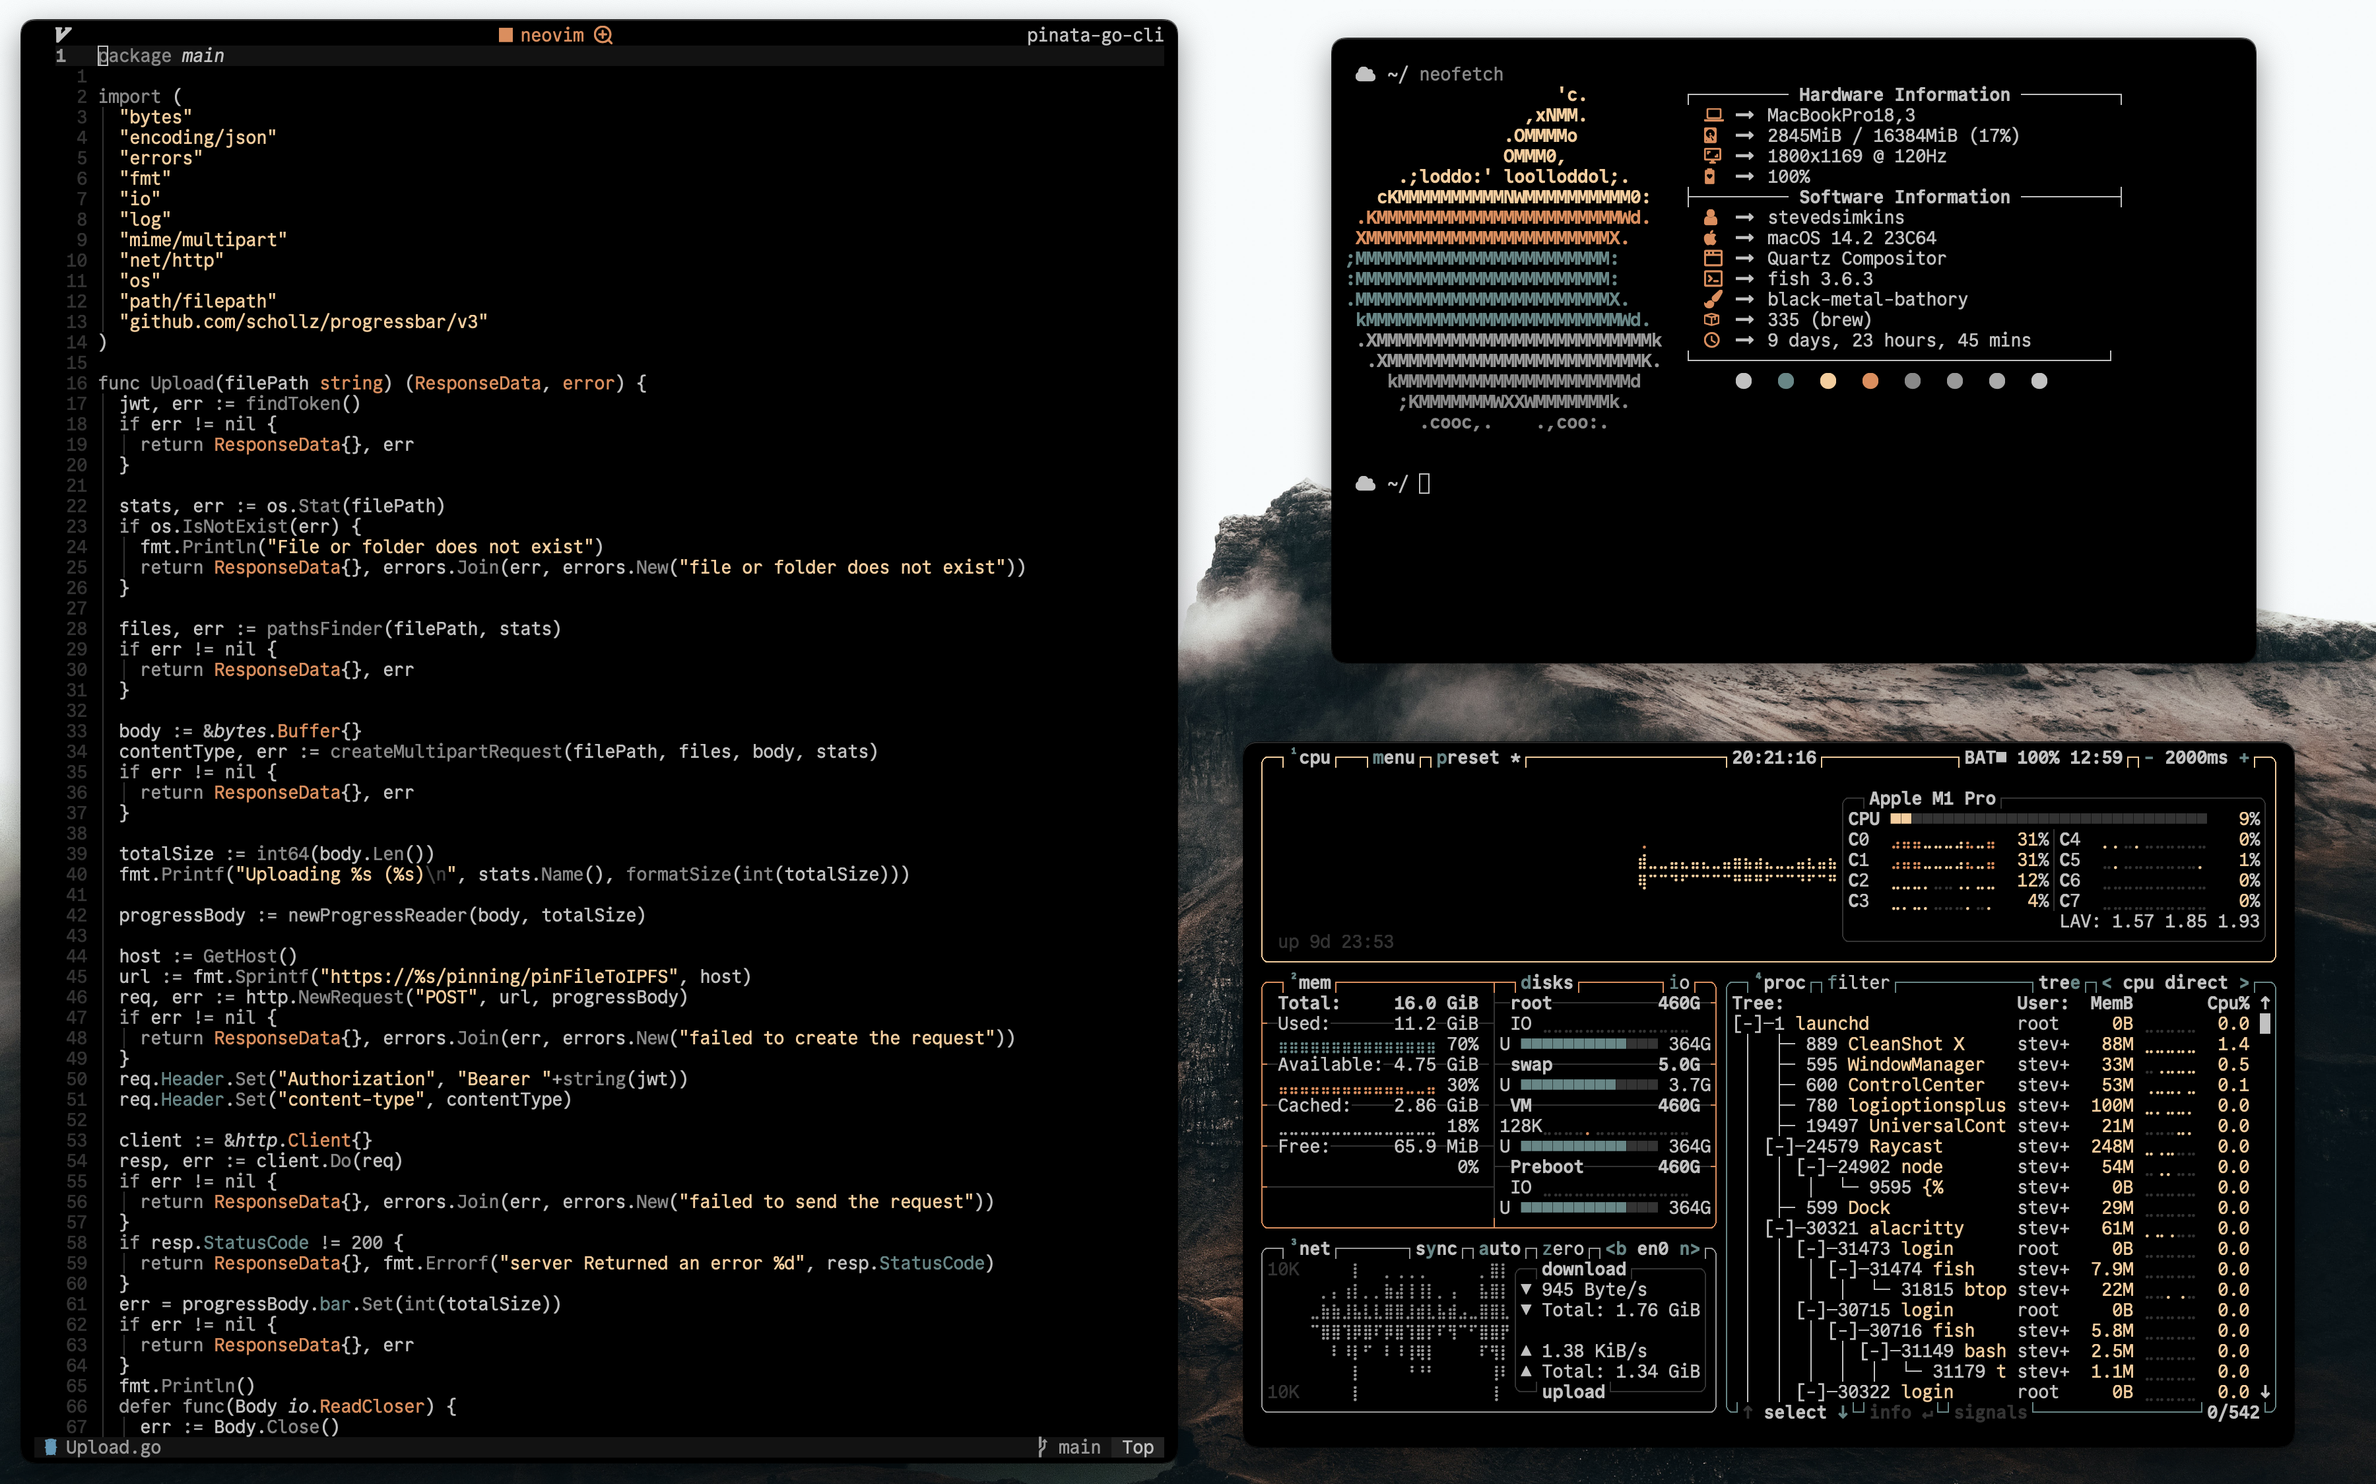
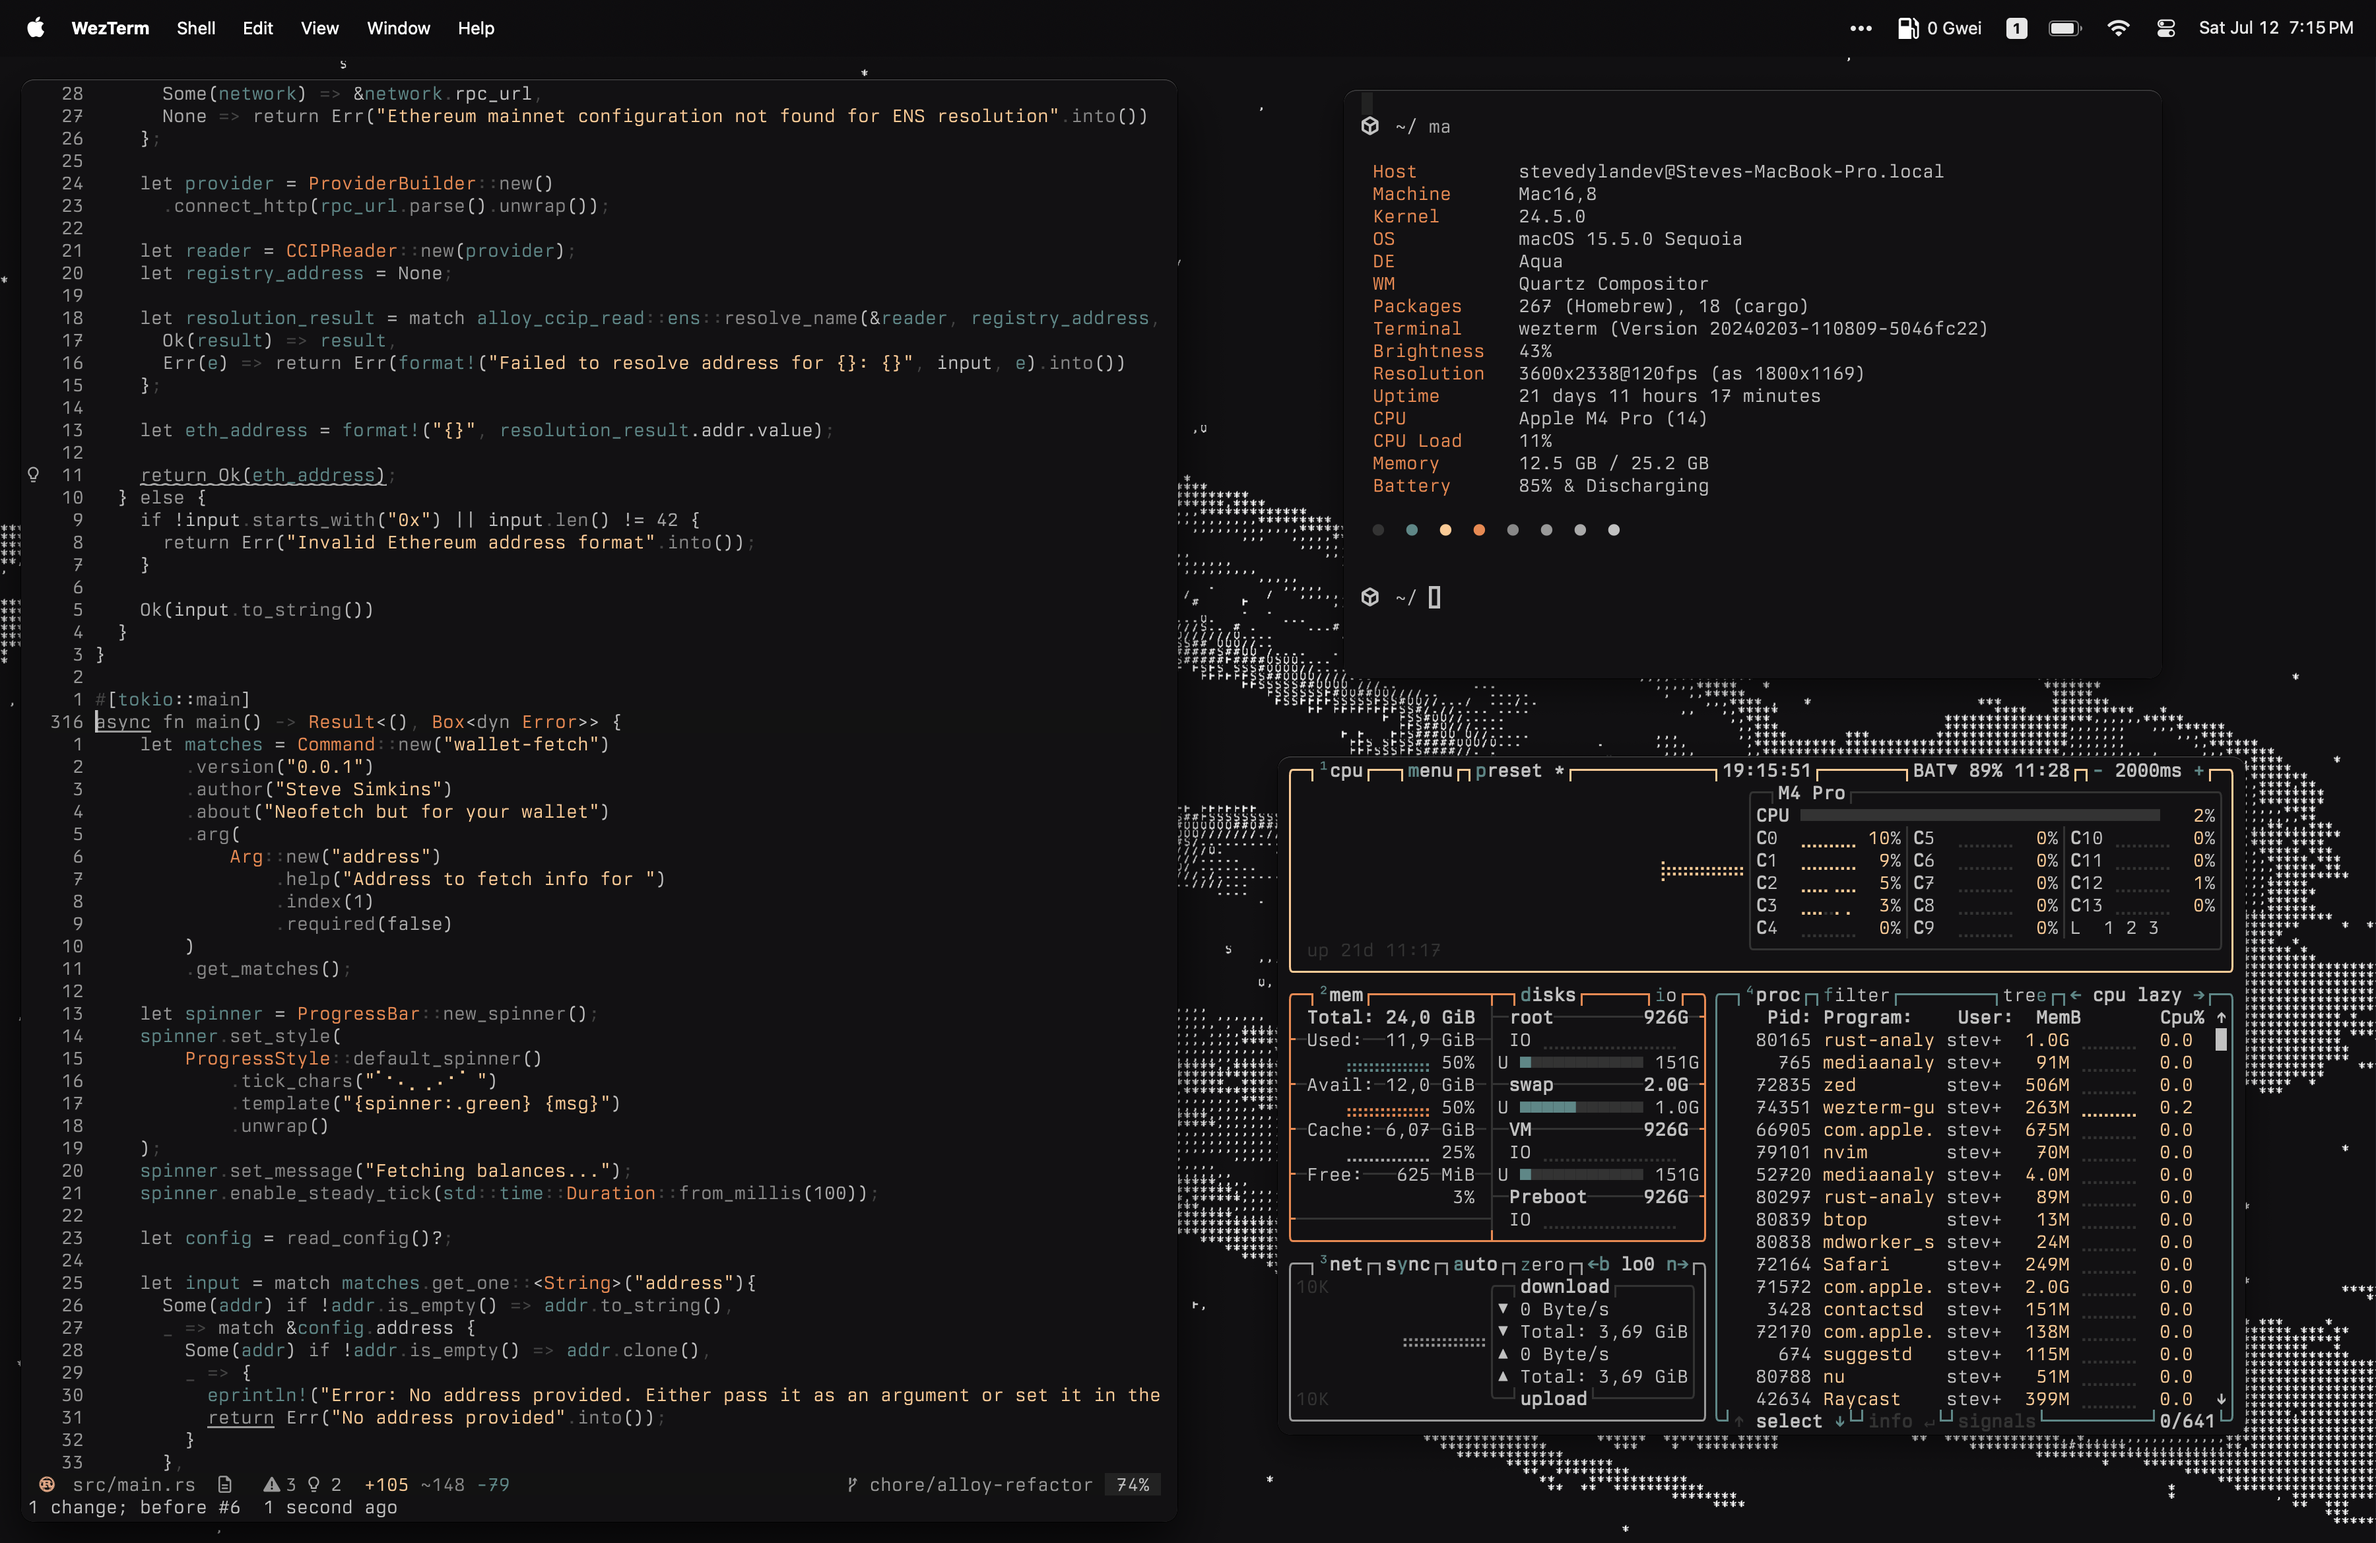
chore: Updated readme

diff --git a/README.md b/README.md
@@ -1,12 +1,28 @@
-## Steve's Dotfiles
+# Dotfiles
 
-Here's a collection of dotfiles that I use regularly on my MacOS development environment. If you want to use them simply copy them to their appropriate locations, majority of them being in `~/.config`.
+A collection of MacOS dotfiles I use in my developement environment
 
-![screenshot](https://github.com/stevedylandev/dotfiles/blob/5230b7f924e3bb30ef477d99af6bc2f41cd7bce6/assets/screenshot.png)
+![screenshot](assets/screenshot.png)
 
-**A few things to be aware of:**
+## Installation
 
-- Alacritty is expecting a Nerd font patched verson of [Commit Mono](https://commitmono.com/) which I have included in `assets` since it is open source!
-- The color scheme is `base16-black-metal-bathory`, which should be available in any theme plugin that offers base16
+To manage dotfiles I use a tool called [fling](https://github.com/bbkane/fling), which is similar to stow but in my opinion a bit more clear and fool proof. If you with to use fling to manage these dotfiles, all you have to do is the following:
 
-Feel free to [reach out](mailto:hello@stevedylan.dev) if you have any questions!
+1. Clone the dotfiles to your machine and `cd` into the directory
+2. Make an empty directory where you want the files to be synced. e.g., `nvim` would be `mkdir -p ~/.config/nvim`
+3. Run the fling command to make a symlink: `fling link -s nvim -l ~/.config/nvim`
+
+This will ask you to confirm the decision and create the symlink. Any time you edit your dot files the changes will actually happen in ~/dotfiles making it easier to manage them with git.
+
+If you don't wish to use fling you can simply copy and paste these as you wish.
+
+## Features
+
+- Custom theme which I've named "Darkmatter" exists in the [wezterm](wezterm/.wezterm.lua), [ghostty](ghostty/config), [nushell](nushell/darkmatter.nu), [nvim](https://github.com/stevedylandev/darkmatter-nvim), and [zed](https://github.com/stevedylandev/darkmatter-zed).
+- A patched version of [Commit Mono](https://commitmono.com) which includes nerd fonts
+- Custom prompt made with [starship](starship/starship.toml)
+- Brewfile and cargofile with most of my packages (I update occasionally)
+
+## Questions
+
+Feel free to [reach out](mailto:hello@stevedylan.dev) if you have any questions! I'm always more than willing to help fellow terminal nerds like me :)
